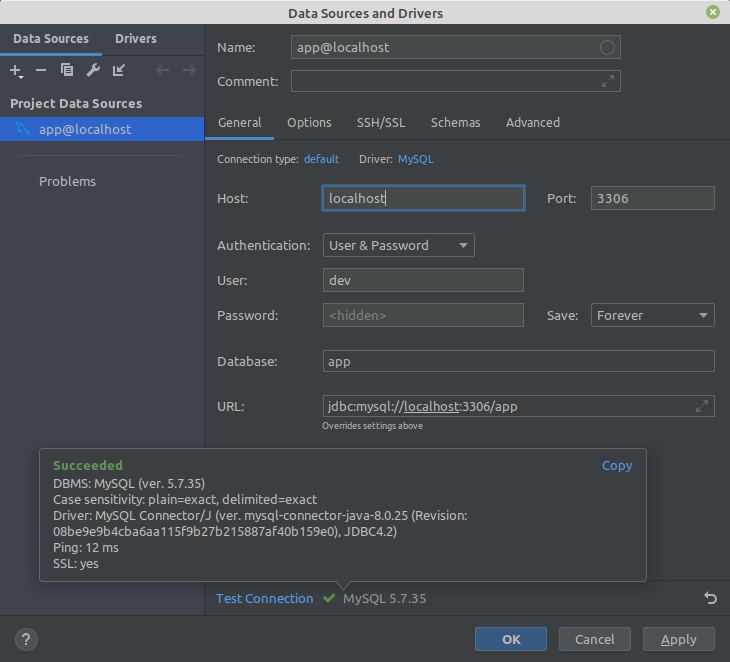
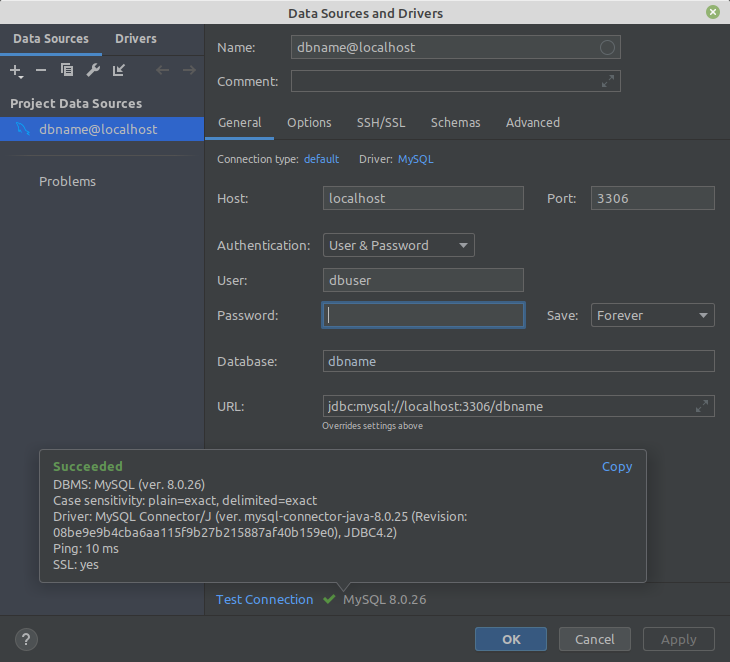
change mysql:5.7 on mysql:8.0 version, update README.md

diff --git a/README.md b/README.md
@@ -1,6 +1,6 @@
 # Skeleton docker php:8.0
 
-Includes: `nginx-proxy`, `php:8.0-cli`, `php:8.0-fpm`, `mysql:5.7`, `adminer` 
+Includes: `nginx-proxy`, `php:8.0-cli`, `php:8.0-fpm`, `mysql:8.0`, `adminer` 
 
 > **Note!**
 > 
@@ -39,7 +39,7 @@ You can see result in console `make php-hello`
 ---
 ## What to use in your project?
 
-If your project does not initially have docker, you need copy in your project folder `docker`, and files `docker-compose.yml` and `Makefile`
+If your project does not initially have docker, you need copy in your project `docker` folder, and files `docker-compose.yml` and `Makefile`
 
 In the `nginx` image, in the `VIRTUAL_HOST` section, specify the site url.
 
@@ -57,14 +57,17 @@ The database host will be `db`
 DB_CONNECTION=mysql
 DB_HOST=db
 DB_PORT=3306
-DB_DATABASE=app
-DB_USERNAME=dev
-DB_PASSWORD=dev
+DB_DATABASE=dbname
+DB_USERNAME=dbuser
+DB_PASSWORD=secret
 ```
 ### For example Symfony
 ```
-DATABASE_URL=mysql://dev:dev@db:3306/app?serverVersion=5.7
+DATABASE_URL=mysql://dbuser:secret@db:3306/dbname?serverVersion=8.0
 ```
-### Settings DB for PhpStorm
 
+### For Adminer
+![adminer-db](./doc/adminer-db.png)
+
+### For PhpStorm
 ![phpstorm-db](./doc/phpstorm-db.png)
